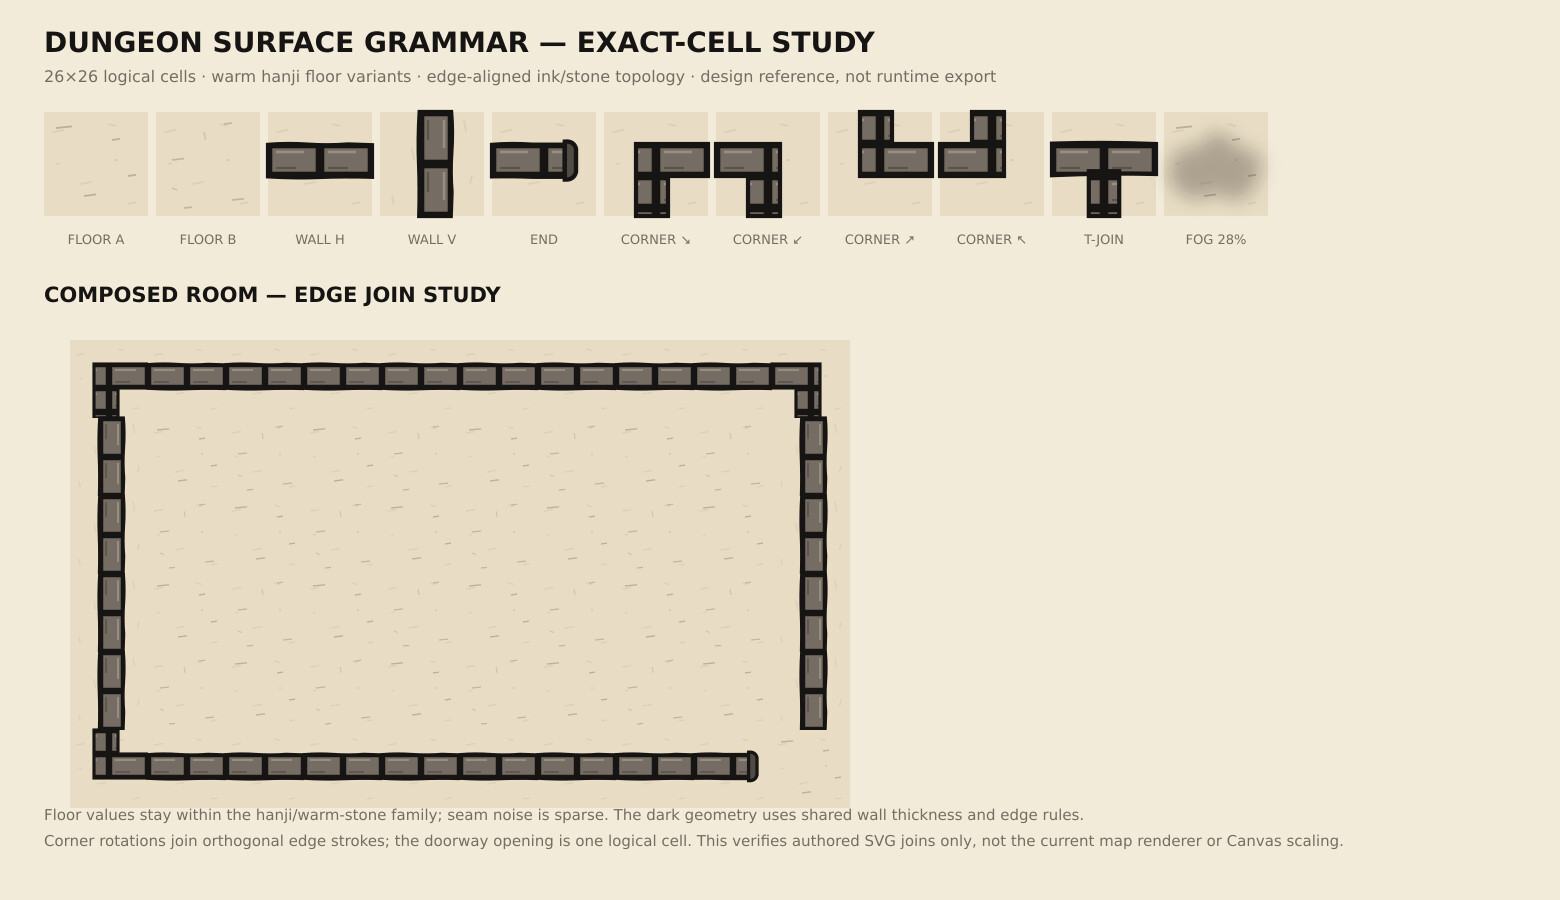
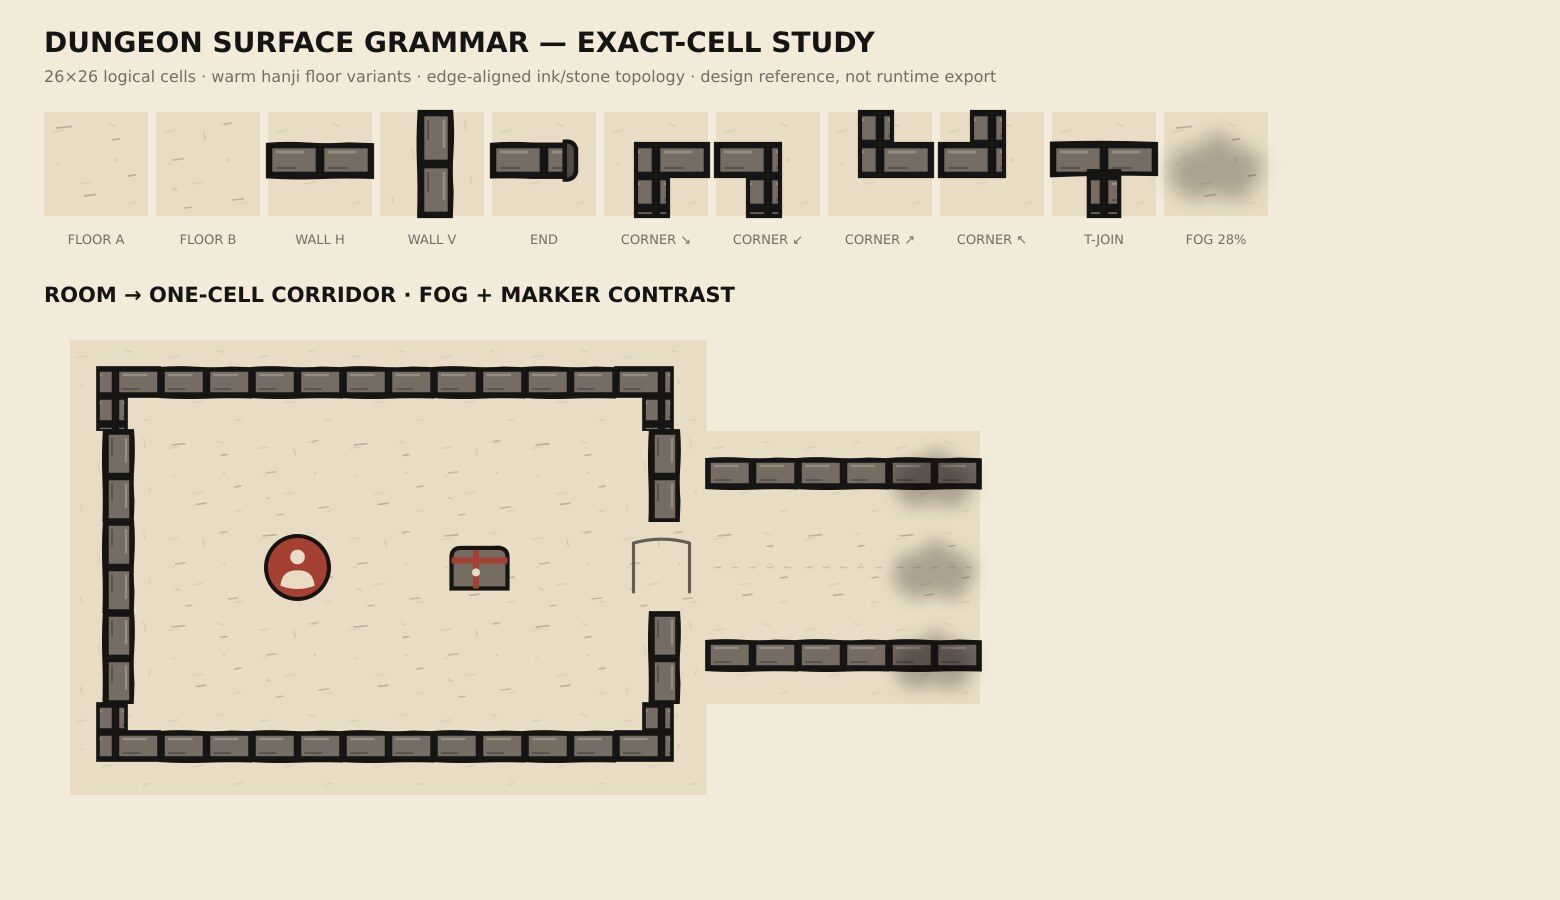
docs(art): add doorway corridor and fog scale study

diff --git a/docs/ai-dev/SESSION_HANDOFF.md b/docs/ai-dev/SESSION_HANDOFF.md
@@ -5,19 +5,19 @@
 - Current product source: `main` at `82b38b4bf877a015e99f53ae551bfedb45bbc790`
 - Latest Claude work: PR #10 merged; Claude commit `3b5bbf3b5b6bfdb7508cca815213da90c4accb5c`
 - Art/design branch: `art/ink-graphic-novel-v1`
-- Current art HEAD before this handoff update: `8af3ebca32a1d7f0f5256d2599480d1938bf7129`
+- Current art HEAD before this handoff update: `7efbaf10b28a5ce934658168d1d62804473c186b`
 - Open PR: none
-- Latest confirmed art CI: commit `8af3ebca32a1d7f0f5256d2599480d1938bf7129` passed CI run #91. This session adds design references only; local npm test/build/browser smoke are `NOT_RUN`.
+- Latest confirmed art CI: commit `7efbaf10b28a5ce934658168d1d62804473c186b` passed CI run #96. This session adds design references only; local npm test/build/browser smoke are `NOT_RUN`.
 - Art direction and Product Baseline remain unchanged.
 
 ## Current Art Phase
 - `PHASE C — Dungeon Graphic Set` is active.
 - Phase B ruler identity language is `APPROVED` as a design reference; individual character images remain `CONCEPT`.
-- Last confirmed done: surface/object vignette atlases, revised trap/sorcery marks including v3, modular surface grammar v3, localized 28% fog-opacity concept study, and a warm floor plus authored 26×26 exact-cell SVG study with four corner rotations.
-- First incomplete task: add an explicit corridor and doorway module to the exact-cell SVG, then place the 28% fog wash over the composed room layout and inspect marker contrast.
-- Visual QA: atlas-crop audit remains `NEEDS_REVISION` because its source panels are vignettes. The generated v4 floor study is warmer and quieter; 26px crops retain paving seams in color/grayscale, while standalone generated panels remain unsuitable for seam claims. The authored exact-cell SVG uses canonical #E8DDC4, sparse seams, four oriented corner joins, H/V walls, end cap, T-junction, and 28% fog study. Its composed wall edges align in the authored map; actual renderer integration and Canvas scaling remain unverified. All are `CONCEPT`.
+- Last confirmed done: surface/object vignette atlases, revised trap/sorcery marks including v3, modular surface grammar v3, localized 28% fog-opacity concept study, warm floor v4, and an authored 26×26 exact-cell SVG study with four corner rotations.
+- First incomplete task: extend the 26px dungeon marker study with stair, trap, sorcery, enemy, and pot silhouettes, then check each on explored hanji and under localized fog in color and grayscale.
+- Visual QA: atlas-crop audit remains `NEEDS_REVISION` because its source panels are vignettes. The authored exact-cell SVG now includes a one-cell doorway, three-cell horizontal corridor, vermilion player marker, chest marker, and feathered 28% fog over explored floor and corridor boundary. Color and grayscale scale simulations at 26px retain the wall pattern and marker silhouettes. The doorway reads, though it is intentionally understated. Source-authored joins and the composed layout only; actual renderer integration, Canvas scaling, and mobile/gameplay behavior remain unverified. All are `CONCEPT`.
 - Blocker: map renderer remains procedural/pixelated; browser/canvas, mobile, and gameplay checks are unverified.
-- Latest confirmed CI before this handoff: commit `38da2473089a227ef8882c83f0429144a36246af` passed run #89. For this design-only change, local `npm test`, `npm run build:web`, and browser/runtime smoke are `NOT_RUN`.
+- Latest confirmed CI before this handoff: commit `7efbaf10b28a5ce934658168d1d62804473c186b` passed run #96. For this design-only change, local `npm test`, `npm run build:web`, and browser/runtime smoke are `NOT_RUN`.
 
 ## Work Responsibility
 This Work owns visual design, concept art, asset registry, and visual QA. The user instructed that all design work continue here without a separate Codex work assignment. Keep the actual game visuals and functional behavior intact while creating design assets and specifications.
@@ -68,6 +68,16 @@ This Work owns visual design, concept art, asset registry, and visual QA. The us
 - Local `npm test`, `npm run build:web`, browser/runtime smoke: `NOT_RUN`. Crop, grayscale, and adjacency visual review: `PASS` for the listed concept checks.
 - Fog over mixed floor/wall, actual renderer, gameplay, and mobile behavior remain unverified.
 - Next safe action: add the missing wall-transition pieces and floor variants, rerun the same 26px crop review, then assess fog strength.
+
+## This Session — Exact-Cell Corridor / Fog / Marker Study
+- Added a one-cell doorway module with clearer stone lintel and posts, a horizontal corridor, player token, and chest symbol to the authored 26×26 SVG study.
+- Composed a seven-cell room through the one-cell doorway into a three-cell corridor. Applied feathered 28% charcoal fog locally to the far corridor floor and boundary walls.
+- Inspected the full composition and a 26px logical-cell simulation in color and grayscale. Wall/floor distinction persists; vermilion player and chest silhouettes remain separable; doorway posts read at the small scale.
+- Added paired color/grayscale scale-review evidence. This is a design-scale simulation from an authored SVG, not runtime renderer or Canvas QA.
+- All new dungeon modules and review sheets remain `CONCEPT`; no game code or logical topology changed.
+- Local `npm test`, `npm run build:web`, and browser/runtime smoke: `NOT_RUN`. Visual composition and scale inspection: `PASS` for the described design checks.
+- Known gap: map renderer compatibility, 390×844 mobile clipping, touch targets, gameplay regression, and real fog compositing remain unverified.
+- Next safe action: extend the 26px object marker board with stair, trap, sorcery, enemy, and pot silhouettes; check their grayscale separation and localized-fog contrast.
 
 ## Asset State
 - Global art direction: `APPROVED`.
@@ -138,7 +148,9 @@ This Work owns visual design, concept art, asset registry, and visual QA. The us
 - `docs/art/concepts/dungeon-floor-surface-concept-v4-20261006.jpg`
 - `docs/art/concepts/dungeon-modular-exact-cell-study-v1-20261006.svg`
 - `docs/art/concepts/dungeon-modular-exact-cell-study-v1-20261006.jpg`
-- `docs/art/concepts/dungeon-exact-cell-scale-review-v1-20261006.jpg`
+- `docs/art/concepts/dungeon-modular-exact-cell-study-v1-grayscale-20261006.jpg`
+- `docs/art/concepts/dungeon-exact-cell-scale-review-v1-20261006.jpg` (superseded for current scale review)
+- `docs/art/concepts/dungeon-exact-cell-scale-review-v2-20261006.jpg`
 - `docs/art/concepts/dungeon-trap-sorcery-scale-review-v2-20261006.jpg`
 - `docs/art/concepts/dong-zhuo-lu-bu-boss-concept-20261006.jpg`
 - `docs/art/concepts/codex-secondary-tabs-20261006.jpg`
@@ -147,14 +159,13 @@ This Work owns visual design, concept art, asset registry, and visual QA. The us
 - `docs/art/concepts/lu-xun-meng-huo-boss-concept-20261006.jpg`
 
 ## Verification
-- Latest confirmed branch CI before this design commit: run #91 on parent `8af3ebca32a1d7f0f5256d2599480d1938bf7129`, `success`.
-- V3 crop and grayscale scale review: `PASS` for distinguishing endpoint, L-corner, and T-junction silhouettes at the study scale; seamless edge joins and overlay alpha are `NOT_VERIFIED`.
+- Latest confirmed branch CI before this design commit: run #96 on parent `7efbaf10b28a5ce934658168d1d62804473c186b`, `success`.
+- Exact-cell color/grayscale scale review v2: `PASS` for floor/wall separation, doorway readability, player/chest silhouette distinction, and localized fog composition at the simulated scale; runtime mapping and actual overlay alpha are `NOT_VERIFIED`.
 - No gameplay code changed. `npm test`, `npm run build:web`, browser/runtime smoke, and production-screen/mobile QA: `NOT_RUN`.
 
 ## NEXT_SAFE_ACTION
-1. Add a distinct corridor / doorway module to the exact-cell SVG and verify one-cell width at 26px.
-2. Apply the 28% feathered fog sample over the composed room/corridor and check player/object marker contrast.
-3. Keep all study files at `CONCEPT` until actual renderer contract and map screenshots can be checked.
+1. Add stair, trap, sorcery, enemy, and pot marker silhouettes to the exact-cell object study; review at 26px in color/grayscale and over localized fog.
+2. Keep all study files at `CONCEPT` until actual renderer contract and map screenshots can be checked.
 
 ## HUMAN GATE
 - Reversible design exploration and reference/spec updates on the art branch: no additional gate.

diff --git a/docs/art/ASSET_REGISTRY.md b/docs/art/ASSET_REGISTRY.md
@@ -44,8 +44,9 @@ Status vocabulary: `CONCEPT`, `APPROVED`, `MASTER_REQUIRED`, `IMPLEMENTATION_REA
 
 
 | Dungeon floor surface concept v4 | `CONCEPT` | `concepts/dungeon-floor-surface-concept-v4-20261006.jpg`; warmer low-contrast floor A/B and H/V corridor references | Keep warmth and sparse seam rhythm; use only as style reference because generated panels have gutters and are not seamless tiles |
-| Dungeon authored exact-cell study v1 | `CONCEPT` | `concepts/dungeon-modular-exact-cell-study-v1-20261006.svg` and rendered JPG; explicit 26×26 logical cells, four oriented L-corners, H/V wall, end cap, T-junction, fog sample, and composed room edge study | Add corridor/doorway variant and verify in the actual map renderer before moving toward implementation |
-| Dungeon exact-cell scale review v1 | `CONCEPT` | `concepts/dungeon-exact-cell-scale-review-v1-20261006.jpg`; authored cells at 26px enlarged 5×, color and grayscale | Design-scale review only; actual Canvas scaling, topology, and gameplay remain unverified |
+| Dungeon authored exact-cell study v1 | `CONCEPT` | `concepts/dungeon-modular-exact-cell-study-v1-20261006.svg` plus color/grayscale renders; explicit 26×26 floor, wall transitions, one-cell doorway, corridor, player/chest markers, and localized 28% fog composition | Expand remaining object markers; verify with actual renderer before moving toward implementation |
+| Dungeon exact-cell scale review v1 | `SUPERSEDED` | `concepts/dungeon-exact-cell-scale-review-v1-20261006.jpg`; earlier cell study before explicit doorway/corridor and marker contrast review | Retain for history; v2 is current design-scale review |
+| Dungeon exact-cell scale review v2 | `CONCEPT` | `concepts/dungeon-exact-cell-scale-review-v2-20261006.jpg`; 26px color/grayscale logical-cell simulation with room-to-corridor composition | Extend to remaining object silhouettes; actual Canvas scaling, topology, fog compositing, and gameplay remain unverified |
 
 ## Current Implementation State
 
